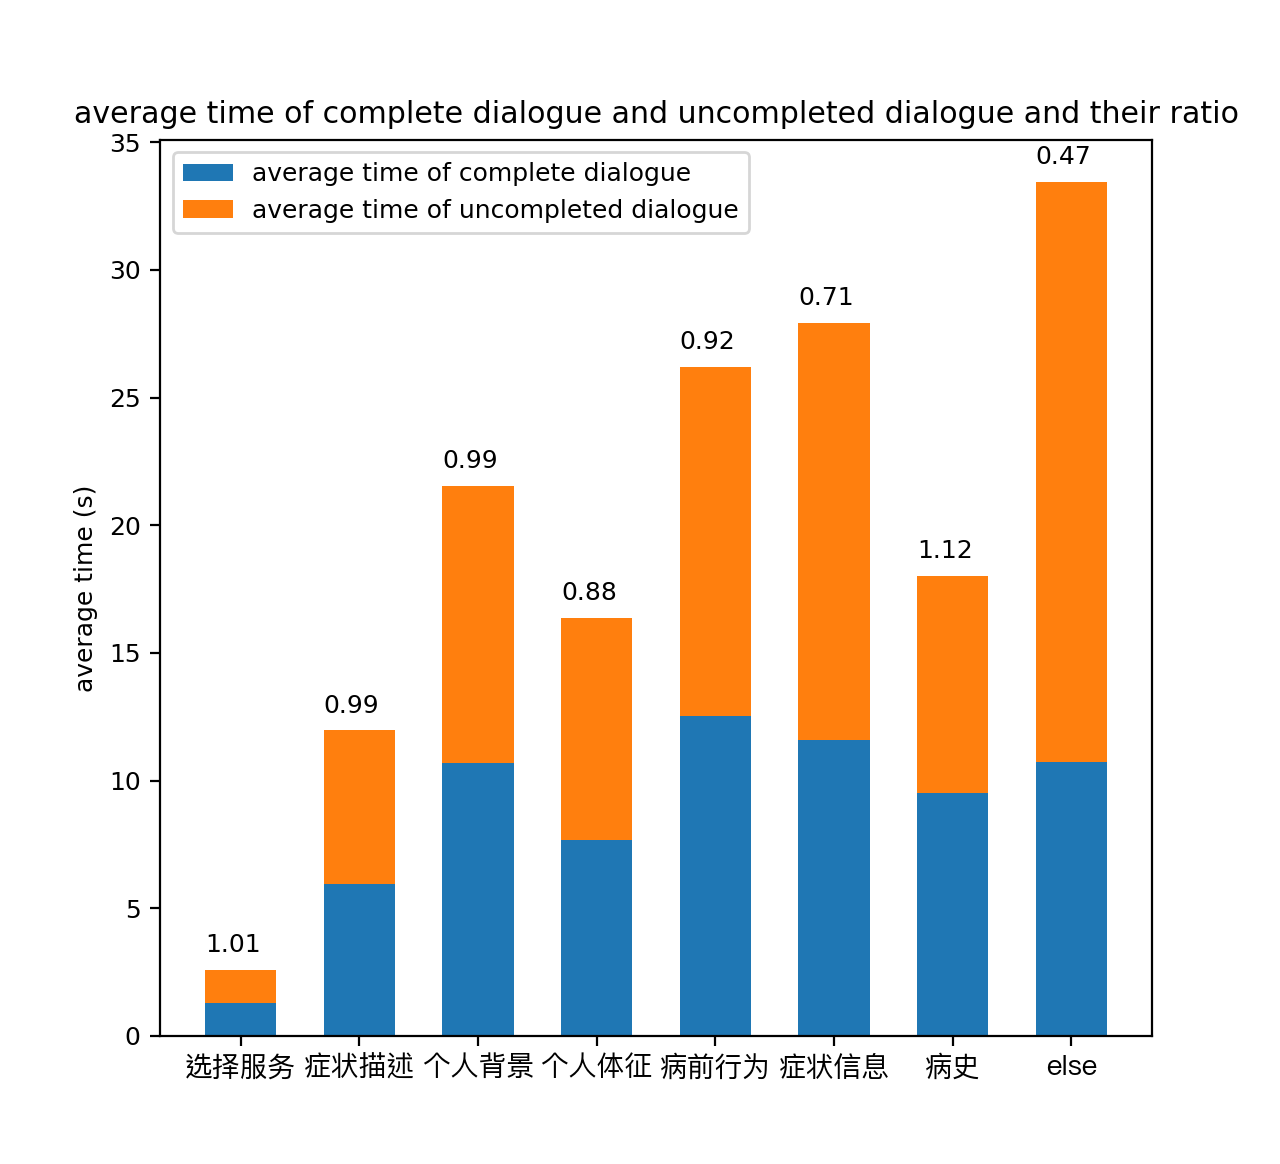
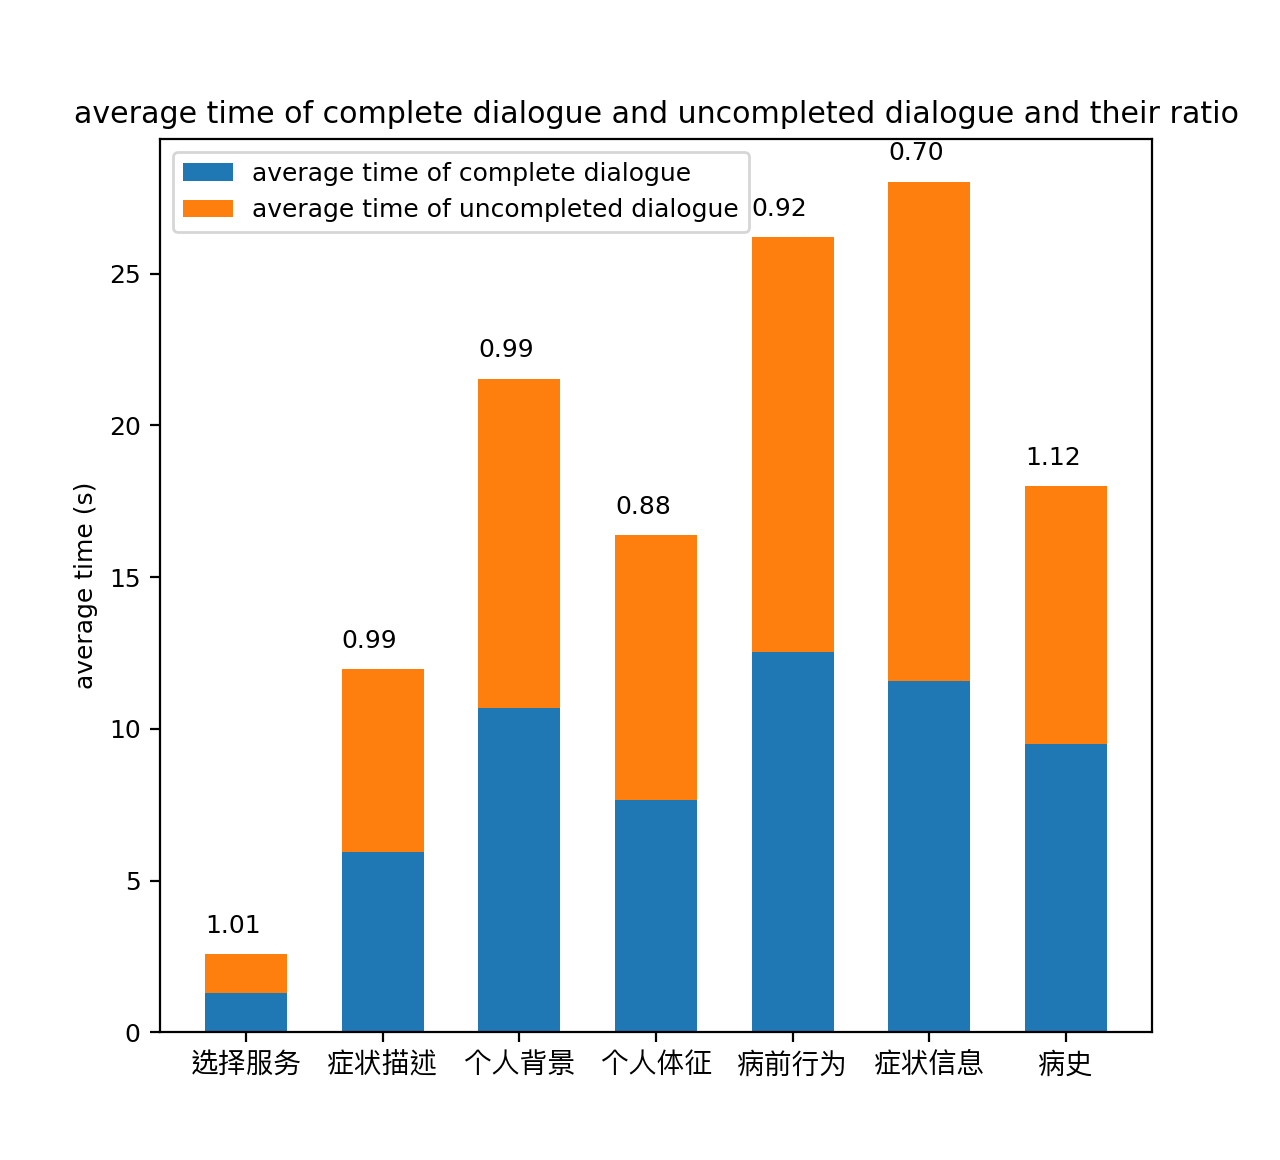
new pred method and results

diff --git a/Analysis/CmpDgnNoRst.py b/Analysis/CmpDgnNoRst.py
@@ -21,12 +21,12 @@ data_no_rst = "dial_no_rst.txt"
 que_ans_time_arr_dgn = Utils.get_que_ans_time_arr(source_path, data_dgn)
 print(len(que_ans_time_arr_dgn))
 # que_cate_arr = {category: [(question, time), (...), ...]}
-que_cate_arr_dgn, que_cate_arr_count_dgn = Utils.get_que_cate_arr(que_ans_time_arr_dgn)
+que_cate_arr_dgn, que_cate_arr_count_dgn = Utils.get_que_cate_arr1(que_ans_time_arr_dgn)
 
 # get no_rst data
 que_ans_time_arr_no_rst = Utils.get_que_ans_time_arr(source_path, data_no_rst)
 print(len(que_ans_time_arr_no_rst))
-que_cate_arr_no_rst, que_cate_arr_count_no_rst = Utils.get_que_cate_arr(que_ans_time_arr_no_rst)
+que_cate_arr_no_rst, que_cate_arr_count_no_rst = Utils.get_que_cate_arr1(que_ans_time_arr_no_rst)
 
 # compare statistics of dgn and no_rst
 cate_cmp_arr = {}
@@ -47,40 +47,40 @@ for cat in que_cate_arr_dgn:
 #           "%.2f" % np.mean(np.array([tim[1] for tim in que_cate_arr_no_rst[cat]])) + "s", Utils.ques_type[cat])
 
 # plot percentage of complete dialogue and uncompleted dialogue and their ratio
-# ind = np.arange(len(cate_cmp_arr))    # the x locations for the groups
-# width = 0.6       # the width of the bars: can also be len(x) sequence
-# per_dgn = [cate_cmp_arr[cat][1][0] for cat in cate_cmp_arr]
-# per_no_rst = [cate_cmp_arr[cat][1][1] for cat in cate_cmp_arr]
-# p1 = plt.bar(ind, per_dgn, width)
-# p2 = plt.bar(ind, per_no_rst, width, bottom=per_dgn)
-# for p_, p__ in zip(p1, p2):
-#     x = p_.get_x()
-#     height = p_.get_height() + p__.get_height()
-#     plt.text(x, height+0.7, "%.2f" % (p_.get_height() / p__.get_height()))
-# plt.ylabel('percentage')
-# plt.title('percentage of complete dialogue and uncompleted dialogue and their ratio')
-# plt.xticks(ind, [cat for cat in cate_cmp_arr], fontproperties=font)
-# # plt.yticks(np.arange(0, 81, 10))
-# plt.legend((p1[0], p2[0]), ('percentage of complete dialogue', 'percentage of uncompleted dialogue'))
-# plt.show()
-
-# plot average time of complete dialogue and uncompleted dialogue and their ratio
 ind = np.arange(len(cate_cmp_arr))    # the x locations for the groups
 width = 0.6       # the width of the bars: can also be len(x) sequence
-time_dgn = [cate_cmp_arr[cat][2][0] for cat in cate_cmp_arr]
-time_no_rst = [cate_cmp_arr[cat][2][1] for cat in cate_cmp_arr]
-p1 = plt.bar(ind, time_dgn, width)
-p2 = plt.bar(ind, time_no_rst, width, bottom=time_dgn)
+per_dgn = [cate_cmp_arr[cat][1][0] for cat in cate_cmp_arr]
+per_no_rst = [cate_cmp_arr[cat][1][1] for cat in cate_cmp_arr]
+p1 = plt.bar(ind, per_dgn, width)
+p2 = plt.bar(ind, per_no_rst, width, bottom=per_dgn)
 for p_, p__ in zip(p1, p2):
     x = p_.get_x()
     height = p_.get_height() + p__.get_height()
     plt.text(x, height+0.7, "%.2f" % (p_.get_height() / p__.get_height()))
-plt.ylabel('average time (s)')
-plt.title('average time of complete dialogue and uncompleted dialogue and their ratio')
+plt.ylabel('percentage')
+plt.title('percentage of complete dialogue and uncompleted dialogue and their ratio')
 plt.xticks(ind, [cat for cat in cate_cmp_arr], fontproperties=font)
 # plt.yticks(np.arange(0, 81, 10))
-plt.legend((p1[0], p2[0]), ('average time of complete dialogue', 'average time of uncompleted dialogue'))
+plt.legend((p1[0], p2[0]), ('percentage of complete dialogue', 'percentage of uncompleted dialogue'))
 plt.show()
+
+# plot average time of complete dialogue and uncompleted dialogue and their ratio
+# ind = np.arange(len(cate_cmp_arr))    # the x locations for the groups
+# width = 0.6       # the width of the bars: can also be len(x) sequence
+# time_dgn = [cate_cmp_arr[cat][2][0] for cat in cate_cmp_arr]
+# time_no_rst = [cate_cmp_arr[cat][2][1] for cat in cate_cmp_arr]
+# p1 = plt.bar(ind, time_dgn, width)
+# p2 = plt.bar(ind, time_no_rst, width, bottom=time_dgn)
+# for p_, p__ in zip(p1, p2):
+#     x = p_.get_x()
+#     height = p_.get_height() + p__.get_height()
+#     plt.text(x, height+0.7, "%.2f" % (p_.get_height() / p__.get_height()))
+# plt.ylabel('average time (s)')
+# plt.title('average time of complete dialogue and uncompleted dialogue and their ratio')
+# plt.xticks(ind, [cat for cat in cate_cmp_arr], fontproperties=font)
+# # plt.yticks(np.arange(0, 81, 10))
+# plt.legend((p1[0], p2[0]), ('average time of complete dialogue', 'average time of uncompleted dialogue'))
+# plt.show()
 
 # 每个问题退出对话的占比
 # all_dial_count = len(que_ans_time_arr_dgn) + len(que_ans_time_arr_no_rst)

diff --git a/Analysis/PredictQuit.py b/Analysis/PredictQuit.py
@@ -8,6 +8,8 @@ import numpy as np
 import math
 from collections import Counter
 import csv
+from scipy import interpolate
+
 
 font = FontProperties(fname='/System/Library/Fonts/PingFang.ttc')
 # plt.rcParams['font.sans-serif'] = ['SimHei']
@@ -23,13 +25,13 @@ data_no_rst = "dial_no_rst.txt"
 que_ans_time_arr_dgn = Utils.get_que_ans_time_arr(source_path, data_dgn)
 que_ans_time_arr_no_rst = Utils.get_que_ans_time_arr(source_path, data_no_rst)
 
-# simple frequency
+
+# according to round
 all_dial_count = len(que_ans_time_arr_dgn) + len(que_ans_time_arr_no_rst)
 len_dial_dgn = dict(Counter([len(qat) for qat in que_ans_time_arr_dgn]))
 len_dial_dgn = sorted(len_dial_dgn.items(), key=lambda x: x[0])
 len_dial_no_rst = dict(Counter([len(qat) for qat in que_ans_time_arr_no_rst]))
 len_dial_no_rst = sorted(len_dial_no_rst.items(), key=lambda x: x[0])
-# plot it
 ind = np.arange(len_dial_no_rst[-1][0]+1)
 width = 0.6
 prob = []
@@ -37,7 +39,7 @@ for i in range(len(ind)):
     prob.append(0)
 for _, ld in enumerate(len_dial_no_rst):
     prob[ld[0]] = ld[1]/all_dial_count*100
-    print(ld[0], ld[1], "%.2f" % (ld[1]/all_dial_count*100) + "%")
+    print("round:", ld[0], "number:", ld[1], "probability: %.2f" % (ld[1]/all_dial_count*100) + "%")
     all_dial_count = all_dial_count - len_dial_dgn[_][1] - len_dial_no_rst[_][1]
 print(all_dial_count)
 p1 = plt.bar(ind, prob, width)
@@ -48,4 +50,38 @@ for p in p1:
 plt.ylabel('probability (%)')
 plt.title('The probability of quitting on problem X')
 plt.show()
+
+# according to time
+# all_dial_count = len(que_ans_time_arr_dgn) + len(que_ans_time_arr_no_rst)
+# tim_dial_dgn = dict(Counter([int(np.ceil(sum([qa[2] for qa in qat])/10)) for qat in que_ans_time_arr_dgn]))
+# tim_dial_dgn = sorted(tim_dial_dgn.items(), key=lambda td: td[0])
+# tim_dial_no_rst = dict(Counter([int(np.ceil(sum([qa[2] for qa in qat])/10)) for qat in que_ans_time_arr_no_rst]))
+# tim_dial_no_rst = sorted(tim_dial_no_rst.items(), key=lambda td: td[0])
+# print(tim_dial_dgn)
+# print(tim_dial_no_rst)
+# # plot it
+# ind = np.arange(tim_dial_no_rst[-1][0]+1)
+# width = 0.6
+# prob = {}
+# # for i in range(len(ind)):
+# #     prob.append(0)
+# for _, ld in enumerate(tim_dial_no_rst):
+#     prob[ld[0]] = ld[1]/all_dial_count*100
+#     # print(ld[0], ld[1], "%.2f" % (ld[1]/all_dial_count*100) + "%")
+#     all_dial_count = all_dial_count - tim_dial_dgn[_][1] - tim_dial_no_rst[_][1]
+# # print(all_dial_count)
+# limit = 80
+# prob[limit] = sum([ld[1] for ld in tim_dial_no_rst if ld[0] > limit])/all_dial_count*100
+# # print(limit, sum([ld[1] for ld in tim_dial_no_rst if ld[0] > limit]), "%.2f" % prob[limit] + "%")
+# prob = list(prob.items())
+# for pr in prob:
+#     print("time:", "%d" % int(pr[0]*10) + "s", "probability:", "%.2f" % pr[1] + "%")
+# f = interpolate.interp1d([pr[0]*10 for pr in prob], [pr[1] for pr in prob], kind='cubic')
+# nx = np.linspace(0, limit*10, 1000)
+# ny = f(nx)
+# plt.plot(nx[0:800], ny[0:800])
+# plt.xlabel('time (s)')
+# plt.ylabel('probability (%)')
+# plt.title('The probability of quitting on problem X\naccording to time cost')
+# plt.show()
 

diff --git a/Analysis/Utils.py b/Analysis/Utils.py
@@ -107,7 +107,7 @@ def get_que_cate_arr1(que_ans_time_arr):
                         classified = True
             if not classified:
                 # print(qu[0])
-                que_cate_arr["else"].append((qu[0], qu[2]))
+                que_cate_arr["症状信息"].append((qu[0], qu[2]))
     que_cate_arr_count = sum([len(que_cate_arr[cat]) for cat in que_cate_arr])
     return que_cate_arr, que_cate_arr_count
 
@@ -160,8 +160,7 @@ ques_type1 = {"选择服务": ["请问您需要哪方面的服务"],
               "症状信息": ["多久了", "多长时间了", "您的描述符合以下哪种症状", "符合以下哪种描述", "是否伴有", "性质",
                        "部位", "颜色", "气味", "形状", "范围", "程度", "加重", "持续性", "阵发性", "频率",
                        "如果还有其它症状，请继续输入。如果没有，请点击没有了"],
-              "病史": ["病史"],
-              "else": ["No Category but Description about Symptom at Most Time."]}
+              "病史": ["病史"]}
 
 ques_type2 = {"简答题": ["请问您需要哪方面的服务", "请选择您的症状", "对不起，没有找到相关症状，请重新输入。"],
               "数字题": ["年龄", "血压", "心率", "体温", "多久了", "多长时间了"],
